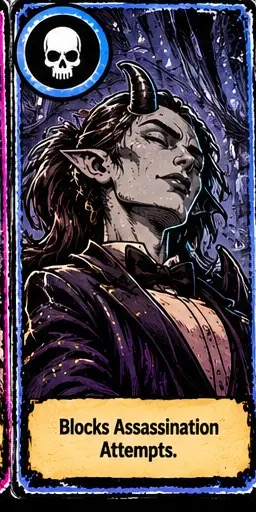
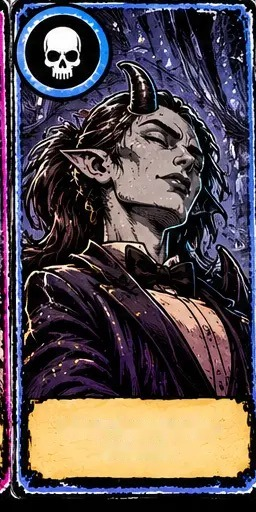
Text-free card art with rules laid over the parchment; add role titles
Titles: The Headliner, The Demolitionist, The Retriever, The Handler,
Exposé Queen, The Alchemist. One-liners are wired in but left blank.

Changed region(s): [[0.2188, 0.8125, 0.875, 0.9062]]

diff --git a/public/app.js b/public/app.js
@@ -277,11 +277,25 @@ function start(id, act) {
   if (act.target) { picking = id; choosing = null; render(); } else send({ type: 'action', action: id });
 }
 
+// Blank parchment on each card art, as [left, top, width, height] in % of the image (live card, then its -dead version).
+const SLOTS = {
+  backstabber: [16.4, 83.0, 81.2, 13.1], 'backstabber-dead': [16.0, 78.7, 81.6, 13.5],
+  bouncer: [12.9, 82.4, 84.4, 13.7], 'bouncer-dead': [13.7, 78.9, 82.8, 13.5],
+  changeling: [8.6, 82.8, 89.1, 13.7], 'changeling-dead': [8.6, 78.9, 89.1, 13.7],
+  goblin: [14.1, 82.4, 83.6, 14.3], 'goblin-dead': [14.1, 78.7, 83.6, 14.3],
+  paparazzo: [10.2, 79.7, 83.2, 16.4], 'paparazzo-dead': [10.2, 76.2, 82.8, 16.6],
+  showrunner: [14.8, 82.8, 82.8, 13.3], 'showrunner-dead': [14.8, 78.9, 82.8, 13.5],
+};
+
 function card(role, cls, onclick, foot) {
+  const art = role + (cls.includes('gone') ? '-dead' : '');
   const b = h('button', { className: `card ${cls}`, onclick, disabled: !onclick },
-    // Revealed cards use the defeated version of the art. The art has no name banner, so the name goes in the text.
-    h('img', { src: `art/${role}${cls.includes('gone') ? '-dead' : ''}.jpg?v=3`, alt: '', width: 256, height: 512 }),
-    h('small', {}, h('b', {}, ROLES[role].name), ' ', ROLES[role].text),
+    // Revealed cards use the defeated version of the art. The art has no name banner or printed text: the name goes in
+    // the text below and the blurb is laid over the blank parchment.
+    h('div', { className: 'art' },
+      h('img', { src: `art/${art}.jpg?v=4`, alt: '', width: 256, height: 512 }),
+      h('span', { className: 'slot', style: `left:${SLOTS[art][0]}%;top:${SLOTS[art][1]}%;width:${SLOTS[art][2]}%;height:${SLOTS[art][3]}%` }, ROLES[role].blurb)),
+    h('small', {}, h('b', {}, ROLES[role].name), ', ', ROLES[role].title, ROLES[role].quip && h('q', {}, ROLES[role].quip)),
     foot && h('b', { className: 'foot' }, foot));
   if (onclick) b.setAttribute('aria-pressed', cls === 'on');
   return b;
@@ -342,7 +356,7 @@ function renderGame() {
     h('details', {}, h('summary', {}, 'Rules'),
       h('p', {}, 'Everyone has 2 hidden cards. Lose both and you are dead. Last one alive wins.'),
       h('p', {}, 'You may claim any role, held or not. If someone calls your bluff and you lied, you lose a card. If you told the truth, they do.'),
-      rolesFor(g.variant).map(k => h('p', {}, chip(k), ' ', ROLES[k].text)),
+      rolesFor(g.variant).map(k => h('p', {}, chip(k), ` ${ROLES[k].title}. ${ROLES[k].text}`)),
       h('p', {}, 'Anyone: Grind +1, Fan Donations +2, Boss Drop (7 gold, cannot be stopped; forced at 10+ gold).')),
     g.phase === 'over' && btn('Leave room', leave, 'ghost'),
   );

diff --git a/public/game.js b/public/game.js
@@ -1,12 +1,13 @@
-// Rules engine and all theme text. The server is the authority; the browser only reads ROLES/ACTIONS for labels.
+// Rules engine and all theme text. `blurb` is the line printed on the card's blank parchment. The server is the authority; the browser only reads ROLES/ACTIONS for labels.
 (function (exports) {
+  // quip: a one-liner shown in italics under the card; empty strings are skipped.
   const ROLES = {
-    showrunner: { name: 'Princess Donut', color: '#f5b921', text: 'Sponsor Deal: take 3 gold. Blocks Fan Donations.' },
-    backstabber: { name: 'Carl', color: '#e0433f', text: 'Shiv: pay 3 gold, a rival loses a card.' },
-    goblin: { name: 'Mongo', color: '#7cc142', text: 'Yoink: steal 2 gold. Blocks Yoink.' },
-    changeling: { name: 'Zev', color: '#b07ae6', text: 'Respec: swap cards with the deck. Blocks Yoink.' },
-    paparazzo: { name: 'Odette', color: '#f28c28', text: 'Respec: swap 1 card with the deck. Exposé: see a rival\'s card and maybe make them redraw it. Blocks Yoink.' },
-    bouncer: { name: 'Mordecai', color: '#4aa3e8', text: 'Safe Room: blocks Shiv.' },
+    showrunner: { name: 'Princess Donut', title: 'The Headliner', quip: '', blurb: 'Sponsor Deal: Take 3 gold. Blocks Fan Donations.', color: '#f5b921', text: 'Sponsor Deal: take 3 gold. Blocks Fan Donations.' },
+    backstabber: { name: 'Carl', title: 'The Demolitionist', quip: '', blurb: 'Shiv: Pay 3 gold, a rival loses a card.', color: '#e0433f', text: 'Shiv: pay 3 gold, a rival loses a card.' },
+    goblin: { name: 'Mongo', title: 'The Retriever', quip: '', blurb: 'Yoink: Steal 2 gold. Blocks stealing.', color: '#7cc142', text: 'Yoink: steal 2 gold. Blocks Yoink.' },
+    changeling: { name: 'Zev', title: 'The Handler', quip: '', blurb: 'Respec: Exchange influence cards with the Court deck. Blocks stealing.', color: '#b07ae6', text: 'Respec: swap cards with the deck. Blocks Yoink.' },
+    paparazzo: { name: 'Odette', title: 'Exposé Queen', quip: '', blurb: 'Exposé: Inspect one rival\'s card (they choose which). Also blocks stealing.', color: '#f28c28', text: 'Respec: swap 1 card with the deck. Exposé: see a rival\'s card and maybe make them redraw it. Blocks Yoink.' },
+    bouncer: { name: 'Mordecai', title: 'The Alchemist', quip: '', blurb: 'Blocks Assassination Attempts.', color: '#4aa3e8', text: 'Safe Room: blocks Shiv.' },
   };
 
   const ACTIONS = {

diff --git a/public/index.html b/public/index.html
@@ -60,12 +60,18 @@
   .card { position:relative; display:flex; flex-direction:column; overflow:hidden; min-height:0; padding:0; text-align:left; font-weight:400;
           background:var(--paper); color:var(--ink); border:3px solid var(--ink); border-radius:10px; box-shadow:4px 4px 0 var(--ink); }
   .card:disabled { opacity:1; box-shadow:4px 4px 0 var(--ink); }
+  .art { position:relative; container-type:inline-size; }
+  .slot { position:absolute; display:flex; align-items:center; justify-content:center; text-align:center; overflow:hidden;
+          font:700 6.4cqw/1.15 var(--body); color:var(--ink); text-wrap:balance; }
+  .card.gone .slot { opacity:.55; }
   .card img { display:block; width:100%; height:auto; border-bottom:3px solid var(--ink); }
   .card small { display:block; margin:0; padding:6px 8px; font-size:12.5px; line-height:1.35; }
+  .card q { display:block; margin-top:3px; font-style:italic; quotes:'“' '”'; }
   .foot { margin-top:auto; padding:7px 8px; font-size:13px; border-top:2px dashed var(--ink); font-weight:400; color:var(--muted); }
   .card.play .foot { background:var(--gold); color:var(--ink); font-weight:700; text-align:center; border-top-style:solid; }
   .card.on { outline:4px solid var(--gold); outline-offset:1px; }
-  .card.gone small { opacity:.55; text-decoration:line-through; }
+  .card.gone small { opacity:.55; }
+  .card.gone small b { text-decoration:line-through; }
 
   .clock { align-self:flex-end; font-weight:700; font-variant-numeric:tabular-nums; }
   .clock:empty { display:none; }

diff --git a/README.md b/README.md
@@ -72,7 +72,7 @@ Sound and vibration cue your turn; the speaker button in the header mutes it.
 
 ## Changing the theme
 
-Every role name, action name and announcer line lives at the top of [public/game.js](public/game.js). Card art (bump the `?v=` number in `public/app.js` when you replace it, since phones cache images for a day) is one image per role in `public/art/`, named after the role's key in that file (256×512 JPEG, the whole card), plus a `-dead` version shown once the card is lost.
+Every role name, action name and announcer line lives at the top of [public/game.js](public/game.js). Card art (bump the `?v=` number in `public/app.js` when you replace it, since phones cache images for a day) is one image per role in `public/art/`, named after the role's key in that file (256×512 JPEG, the whole card), plus a `-dead` version shown once the card is lost. The art has no printed text: each card's parchment is blank, and its `blurb` from `game.js` is laid over it at the position listed in `SLOTS` in `public/app.js`.
 
 ## Development
 
